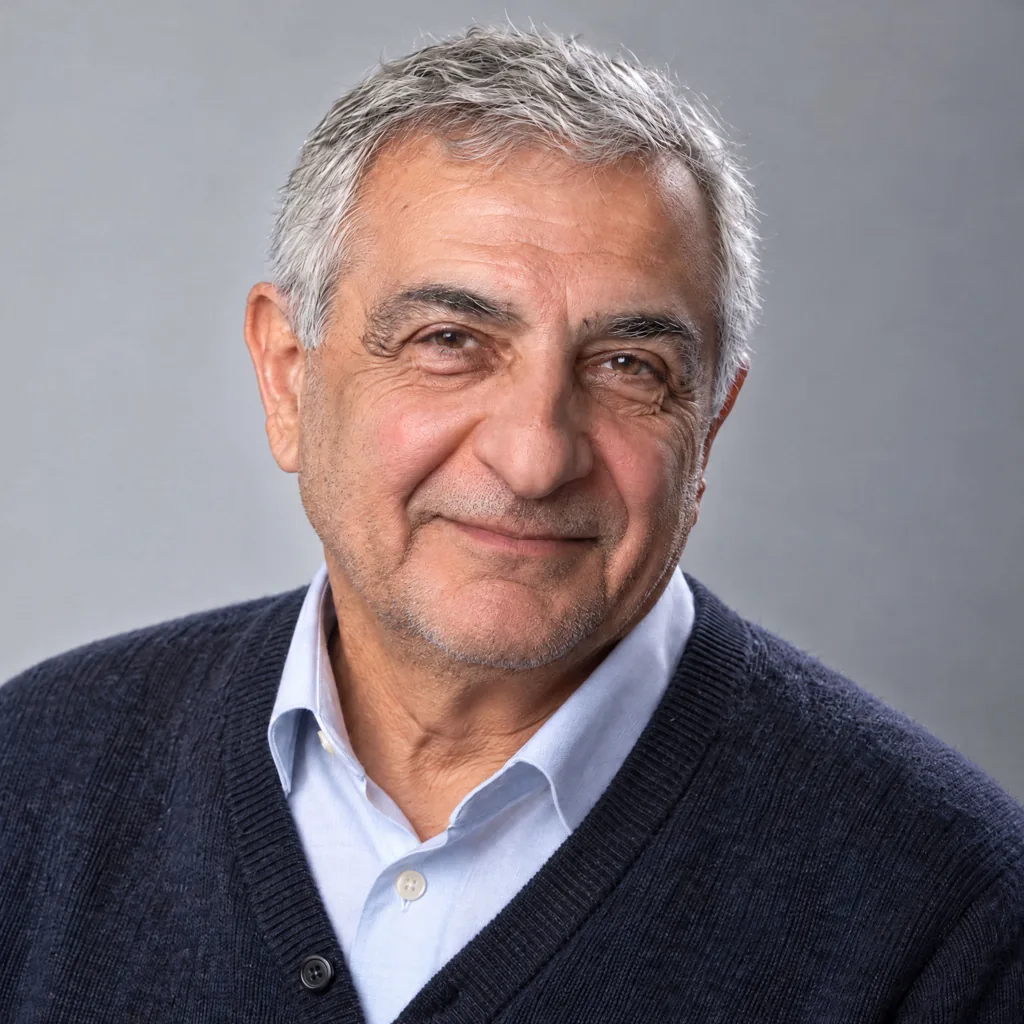
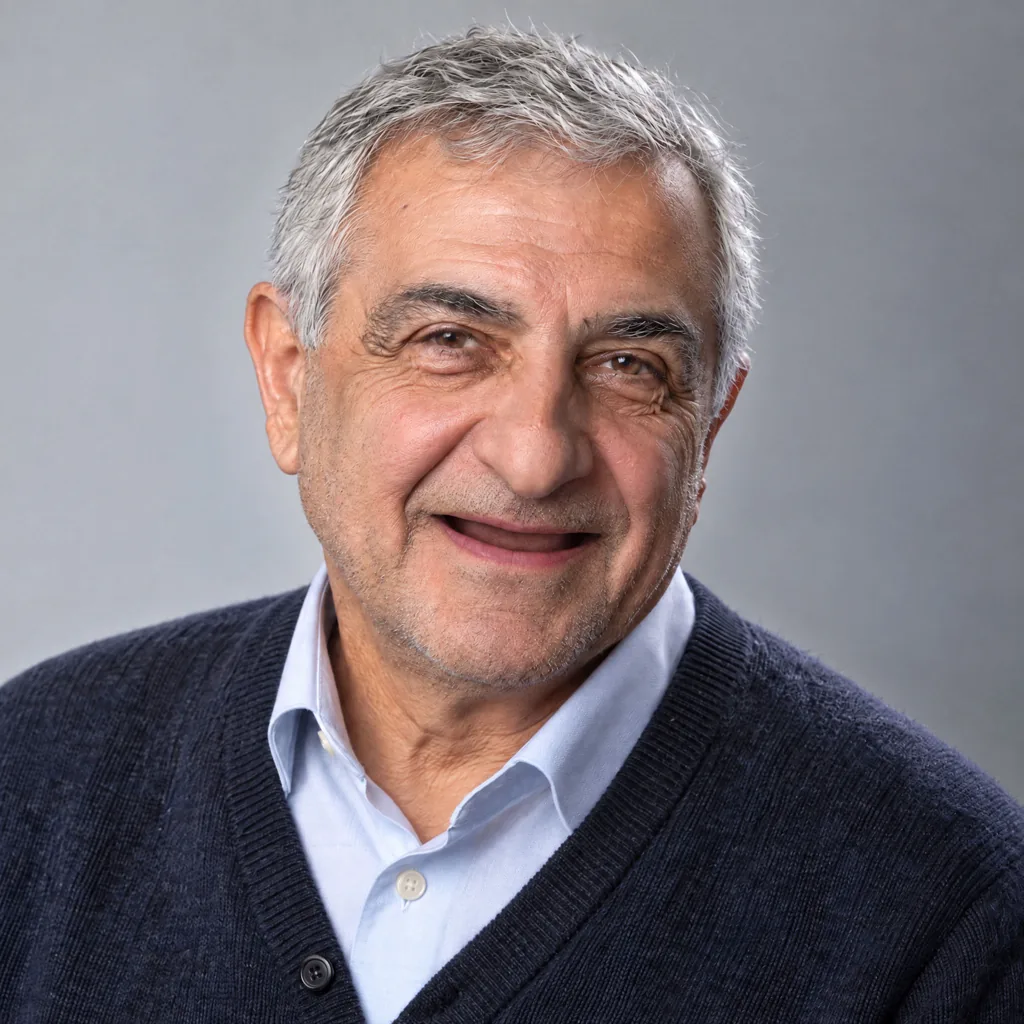
Results: before photos follow the references (toothless; front-tooth gap); labels Հիմա/Առաջ only on pairs

diff --git a/src/components/Highlights.tsx b/src/components/Highlights.tsx
@@ -40,7 +40,7 @@ export function Highlights({ onBook }: { onBook: () => void }) {
                 {item.before && <img className="hl-before" src={item.before} alt="" width={1024} height={1024} loading="lazy" decoding="async" />}
                 <img className="hl-after" src={item.after} alt="" width={1024} height={1024} loading="lazy" decoding="async" />
                 {item.before && <span className="hl-tag hl-tag-before">Առաջ</span>}
-                <span className="hl-tag hl-tag-after">Հետո</span>
+                {item.before && <span className="hl-tag hl-tag-after">Հիմա</span>}
                 <span className="hl-sample">Նմուշ</span>
               </figure>
             </li>
